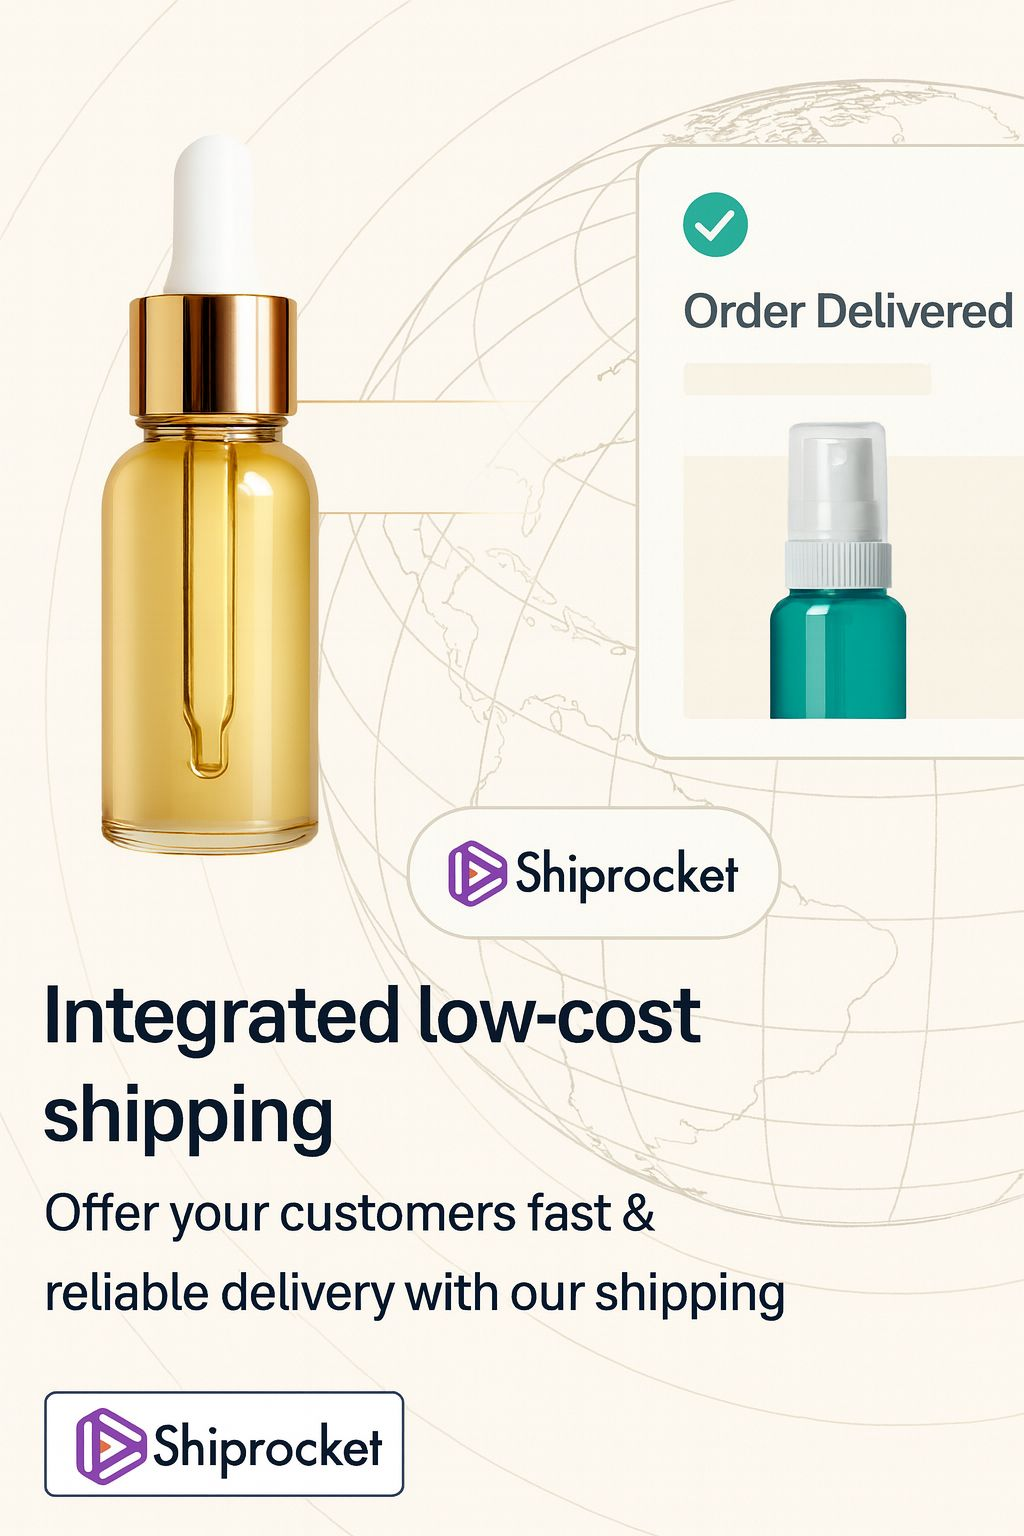
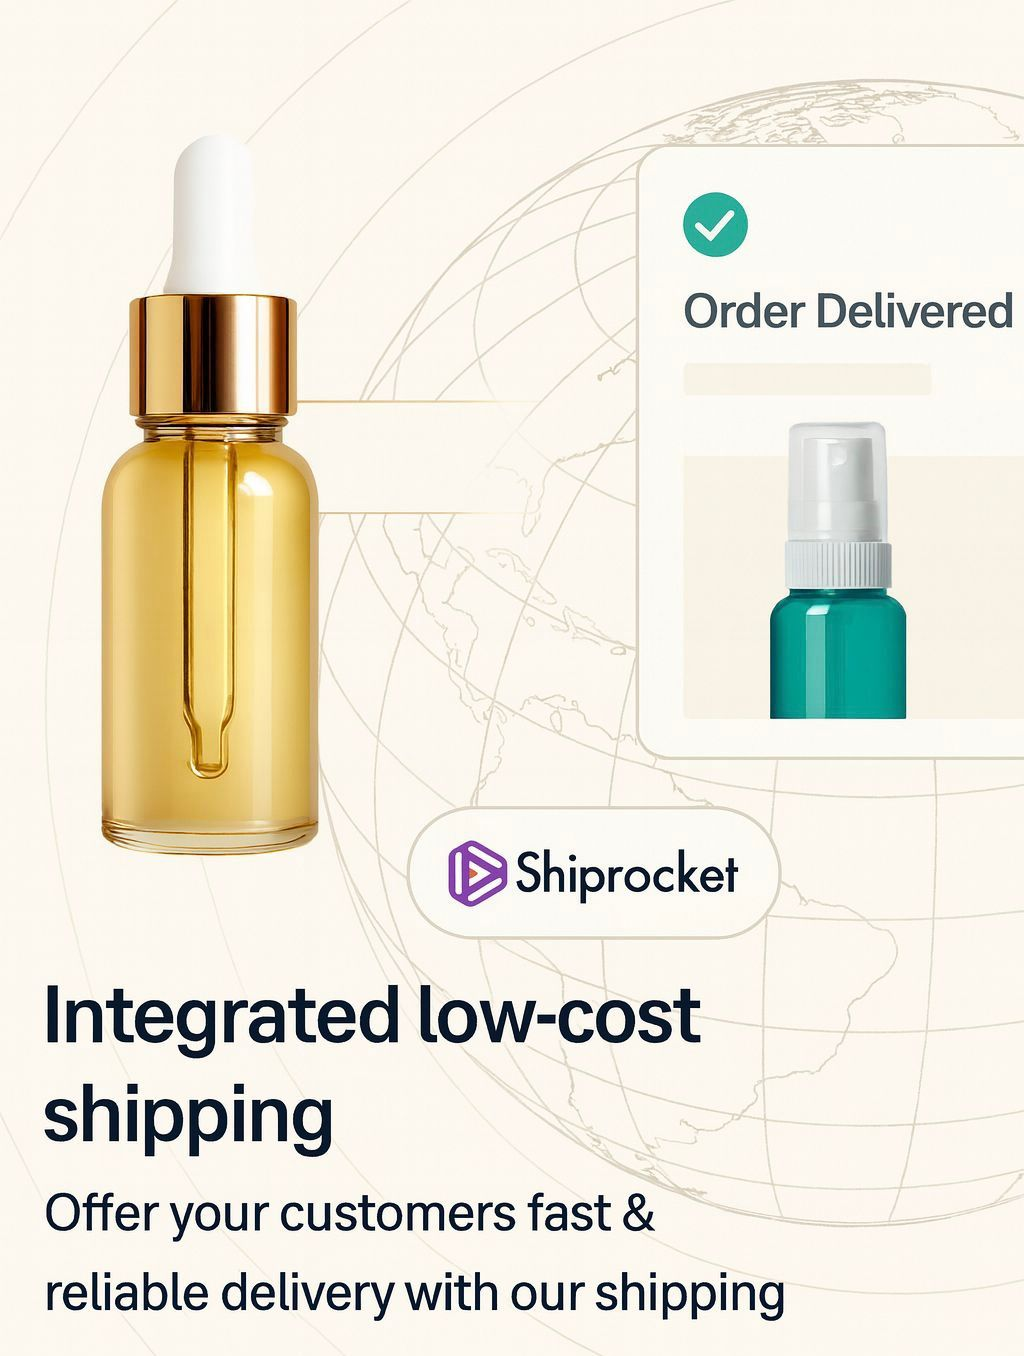
move  a bit

diff --git a/sakhi-store-smartbiz/src/css/style.css b/sakhi-store-smartbiz/src/css/style.css
@@ -43,6 +43,12 @@ body {
     overflow-x: hidden;
 }
 
+.signup-page {
+    background: radial-gradient(circle at top left, #fff0f5 0%, #ffe0ec 45%, #ffd7e6 100%);
+    min-height: 100vh;
+    padding: 2rem;
+}
+
 /* Header */
 .header {
     background: #fff;
@@ -251,14 +257,14 @@ body {
 }
 
 .card-order {
-    top: 20%;
-    right: -20px;
+    top: 12%;
+    right: -60px;
     width: 200px;
 }
 
 .card-sales {
-    bottom: 20%;
-    left: -20px;
+    bottom: 12%;
+    left: -120px;
     width: 180px;
 }
 
@@ -559,6 +565,50 @@ body {
     text-align: center;
 }
 
+.marketing-layout {
+    position: relative;
+    border-radius: 32px;
+    overflow: hidden;
+    padding: clamp(2rem, 5vw, 3.5rem);
+    box-shadow: 0 25px 45px rgba(0, 0, 0, 0.08);
+    background: #ffffff;
+}
+
+.marketing-horizontal-bg {
+    position: absolute;
+    inset: 0;
+    width: 100%;
+    height: 100%;
+    object-fit: cover;
+    opacity: 1;
+    filter: saturate(1.15) brightness(1.05);
+    z-index: 0;
+}
+
+.marketing-layout::after {
+    content: '';
+    position: absolute;
+    inset: 0;
+    background: linear-gradient(180deg, rgba(255, 255, 255, 0.25) 0%, rgba(255, 255, 255, 0.15) 40%, rgba(255, 255, 255, 0.25) 100%);
+    z-index: 0;
+    pointer-events: none;
+}
+
+.marketing-content {
+    position: relative;
+    z-index: 1;
+    text-align: left;
+    display: flex;
+    flex-direction: column;
+    gap: 2.5rem;
+}
+
+.marketing-content h2 {
+    margin-bottom: 0;
+    color: #1a1a1a;
+    text-shadow: none;
+}
+
 .marketing-tools h2 {
     font-size: 2.5rem;
     font-weight: 700;
@@ -570,25 +620,52 @@ body {
     display: grid;
     grid-template-columns: repeat(3, 1fr);
     gap: 2rem;
+    position: relative;
+    z-index: 1;
 }
 
 .tool-card {
-    background: #2a2a2a;
-    padding: 2rem;
-    border-radius: 16px;
+    background: rgba(20, 20, 20, 0.85);
+    padding: 2.25rem;
+    border-radius: 20px;
     color: #fff;
     text-align: left;
+    box-shadow: 0 30px 70px rgba(0, 0, 0, 0.35);
+    border: 1px solid rgba(255, 255, 255, 0.08);
 }
 
 .tool-card h3 {
     font-size: 1.3rem;
     font-weight: 700;
     margin-bottom: 1rem;
+    color: #ffffff;
 }
 
 .tool-card p {
     color: #ccc;
     line-height: 1.7;
+}
+
+@media (max-width: 1200px) {
+    .tools-grid {
+        grid-template-columns: repeat(2, 1fr);
+    }
+}
+
+@media (max-width: 768px) {
+    .marketing-layout {
+        padding: 2rem;
+    }
+
+    .marketing-overlay-label {
+        align-self: stretch;
+        border-radius: 16px;
+        text-align: center;
+    }
+
+    .tools-grid {
+        grid-template-columns: 1fr;
+    }
 }
 
 /* CTA Section */
@@ -1524,6 +1601,8 @@ body {
     margin: 0 auto;
     padding: 2rem;
     gap: 4rem;
+    background: linear-gradient(145deg, #fff6f8 0%, #ffe9f1 40%, #ffdfe9 100%);
+    border-radius: 32px;
 }
 
 .signup-content {
@@ -1564,11 +1643,20 @@ body {
 
 .signup-visual {
     height: 500px;
-    background: linear-gradient(135deg, #e0f7fa 0%, #80deea 100%);
-    border-radius: 20px;
-    display: flex;
-    align-items: center;
-    justify-content: center;
+    background: linear-gradient(135deg, #f0d8c7 0%, #f7efe8 100%);
+    border-radius: 24px;
+    position: relative;
+    overflow: hidden;
+    box-shadow: 0 30px 60px rgba(55, 35, 20, 0.25);
+}
+
+.signup-image {
+    width: 100%;
+    height: 100%;
+    object-fit: cover;
+    display: block;
+    border-radius: inherit;
+    filter: saturate(1.05);
 }
 
 @media (max-width: 900px) {
@@ -2252,13 +2340,34 @@ body {
 
 /* FAQ Section */
 .faq-section {
-    background: #fff;
+    position: relative;
     padding: 6rem 2rem;
+    overflow: hidden;
+    background: transparent;
+}
+
+.faq-section::before {
+    content: '';
+    position: absolute;
+    inset: 0;
+    background: url('../images/khoj.jpg') center/cover no-repeat;
+    filter: saturate(1.1) brightness(1.02);
+    z-index: 0;
+}
+
+.faq-section::after {
+    content: '';
+    position: absolute;
+    inset: 0;
+    background: rgba(255, 255, 255, 0.25);
+    z-index: 1;
 }
 
 .faq-container {
     max-width: 1200px;
     margin: 0 auto;
+    position: relative;
+    z-index: 2;
 }
 
 .faq-section h2 {
@@ -2276,16 +2385,19 @@ body {
 }
 
 .faq-item {
-    background: #f9f9f9;
+    background: rgba(255, 255, 255, 0.92);
     padding: 2rem;
     border-radius: 12px;
-    border: 1px solid #eee;
+    border: 1px solid rgba(255, 255, 255, 0.4);
+    backdrop-filter: blur(14px);
+    -webkit-backdrop-filter: blur(14px);
+    box-shadow: 0 25px 45px rgba(0, 0, 0, 0.12);
     transition: transform 0.3s ease, box-shadow 0.3s ease;
 }
 
 .faq-item:hover {
     transform: translateY(-5px);
-    box-shadow: 0 10px 30px rgba(0, 0, 0, 0.1);
+    box-shadow: 0 35px 55px rgba(0, 0, 0, 0.15);
 }
 
 .faq-item h3 {
@@ -2298,7 +2410,7 @@ body {
 .faq-item p {
     font-size: 1rem;
     line-height: 1.7;
-    color: #666;
+    color: #555;
 }
 
 @media (max-width: 768px) {

diff --git a/sakhi-store-smartbiz/src/index.html b/sakhi-store-smartbiz/src/index.html
@@ -480,22 +480,27 @@
     <!-- Marketing Tools -->
     <section class="marketing-tools">
         <div class="marketing-tools-container">
-            <h2>Grow & convert with built-in marketing tools</h2>
-            <div class="tools-grid">
-                <div class="tool-card">
-                    <h3>SEO tools & social media integrations</h3>
-                    <p>Built-in SEO optimization tools optimize product listings with keywords to rank higher on search
-                        engines, driving more traffic.</p>
-                </div>
-                <div class="tool-card">
-                    <h3>Seamless advertising platform integrations</h3>
-                    <p>Run targeted ad campaigns with Google Ads and Meta (Facebook/Instagram) integrations to boost
-                        sales and attract new customers.</p>
-                </div>
-                <div class="tool-card">
-                    <h3>Automations for every customer action</h3>
-                    <p>Re-engage and win more customers with automated WhatsApp messages. Recover abandoned carts, send
-                        order confirmation and more.</p>
+            <div class="marketing-layout">
+                <img src="images/index.jpg" alt="Handcrafted artisanal moodboard showcasing earthy tones"
+                    loading="lazy" class="marketing-horizontal-bg">
+                <div class="marketing-content">
+                    <div class="tools-grid">
+                        <div class="tool-card">
+                            <h3>SEO tools & social media integrations</h3>
+                            <p>Built-in SEO optimization tools optimize product listings with keywords to rank higher on search
+                                engines, driving more traffic.</p>
+                        </div>
+                        <div class="tool-card">
+                            <h3>Seamless advertising platform integrations</h3>
+                            <p>Run targeted ad campaigns with Google Ads and Meta (Facebook/Instagram) integrations to boost
+                                sales and attract new customers.</p>
+                        </div>
+                        <div class="tool-card">
+                            <h3>Automations for every customer action</h3>
+                            <p>Re-engage and win more customers with automated WhatsApp messages. Recover abandoned carts, send
+                                order confirmation and more.</p>
+                        </div>
+                    </div>
                 </div>
             </div>
         </div>

diff --git a/sakhi-store-smartbiz/src/signup.html b/sakhi-store-smartbiz/src/signup.html
@@ -36,7 +36,7 @@
     <link rel="stylesheet" href="css/style.css">
 </head>
 
-<body>
+<body class="signup-page">
     <div class="signup-wrapper">
         <div class="signup-content">
             <div class="logo" style="display: flex; align-items: center; gap: 0.1rem; margin-bottom: 2rem;">
@@ -63,9 +63,7 @@
                 Back to Home</a>
         </div>
         <div class="signup-visual">
-            <div class="hero-illustration">
-                <div style="font-size: 5rem;">✨</div>
-            </div>
+            <img src="images/signup.jpg" alt="Handcrafted Indian textiles stacked neatly" class="signup-image">
         </div>
     </div>
 </body>
